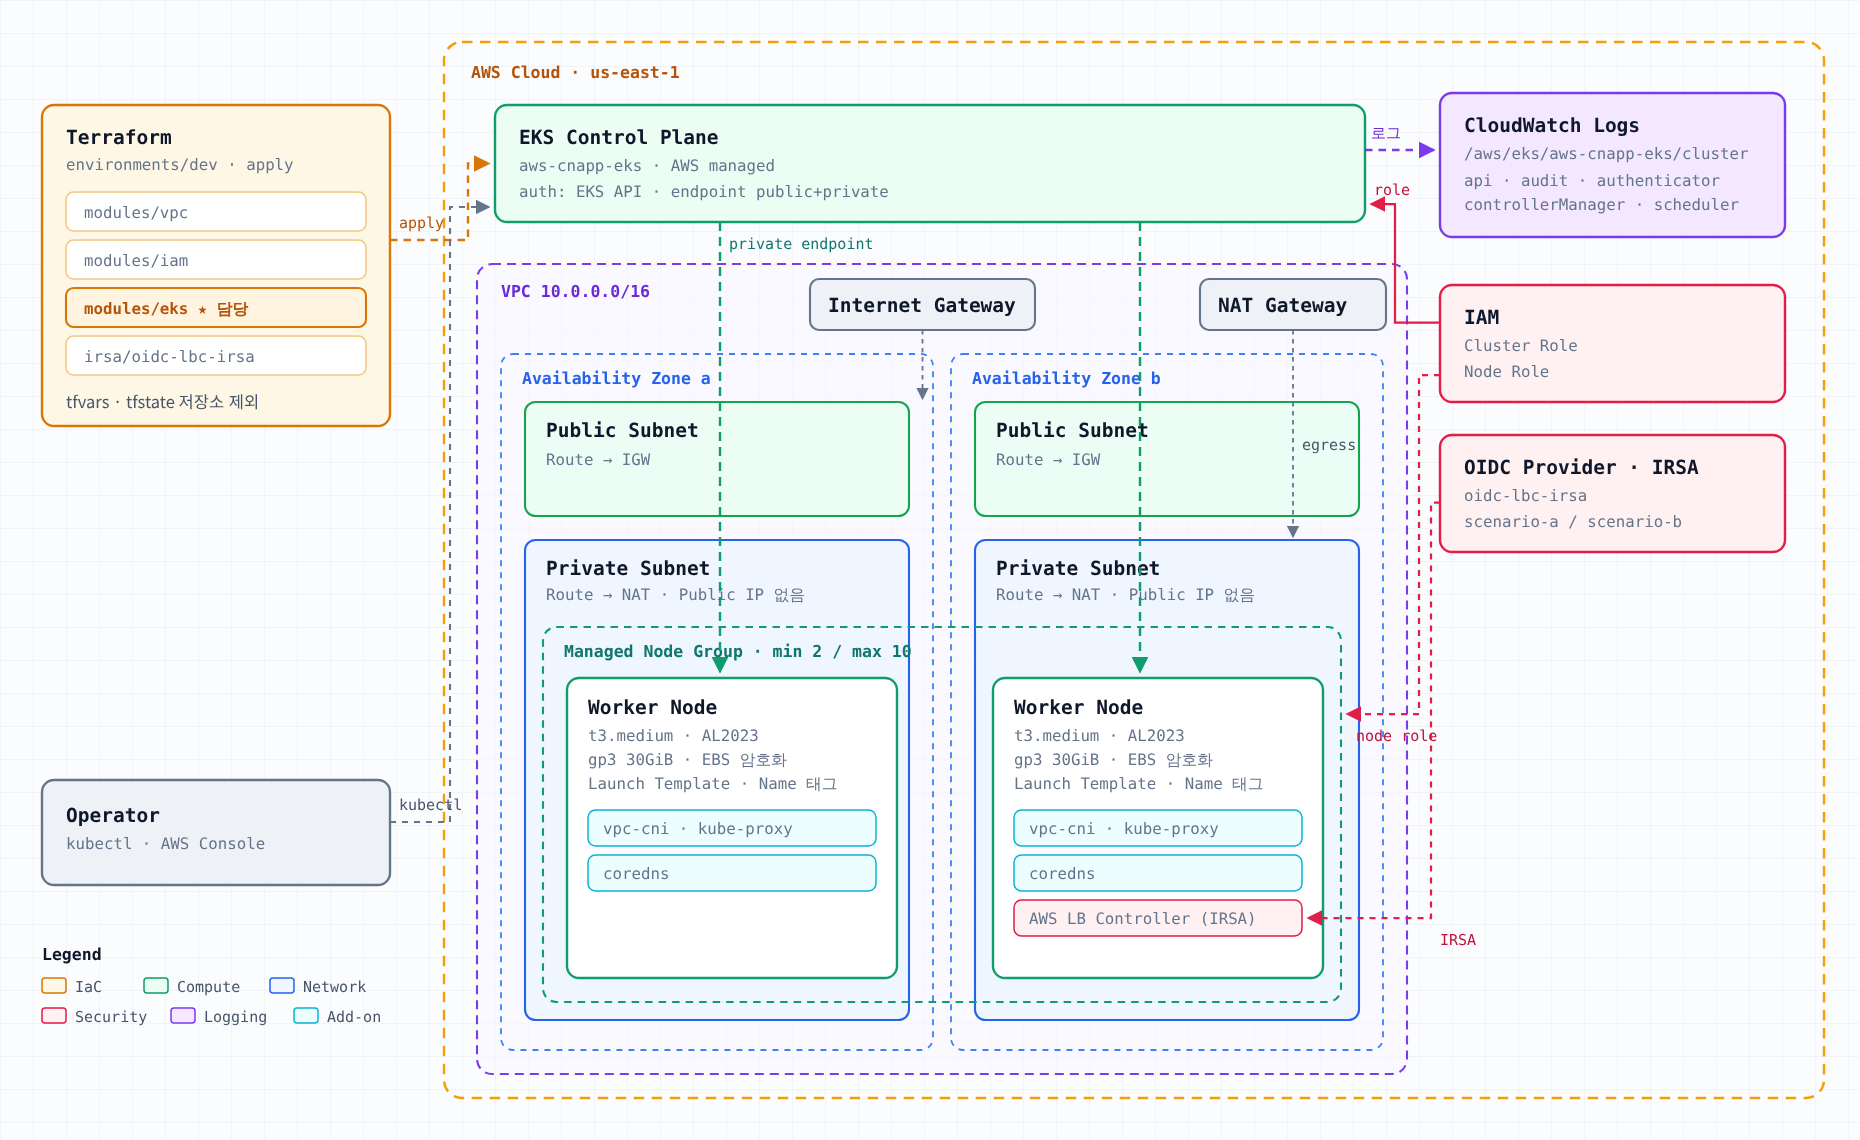
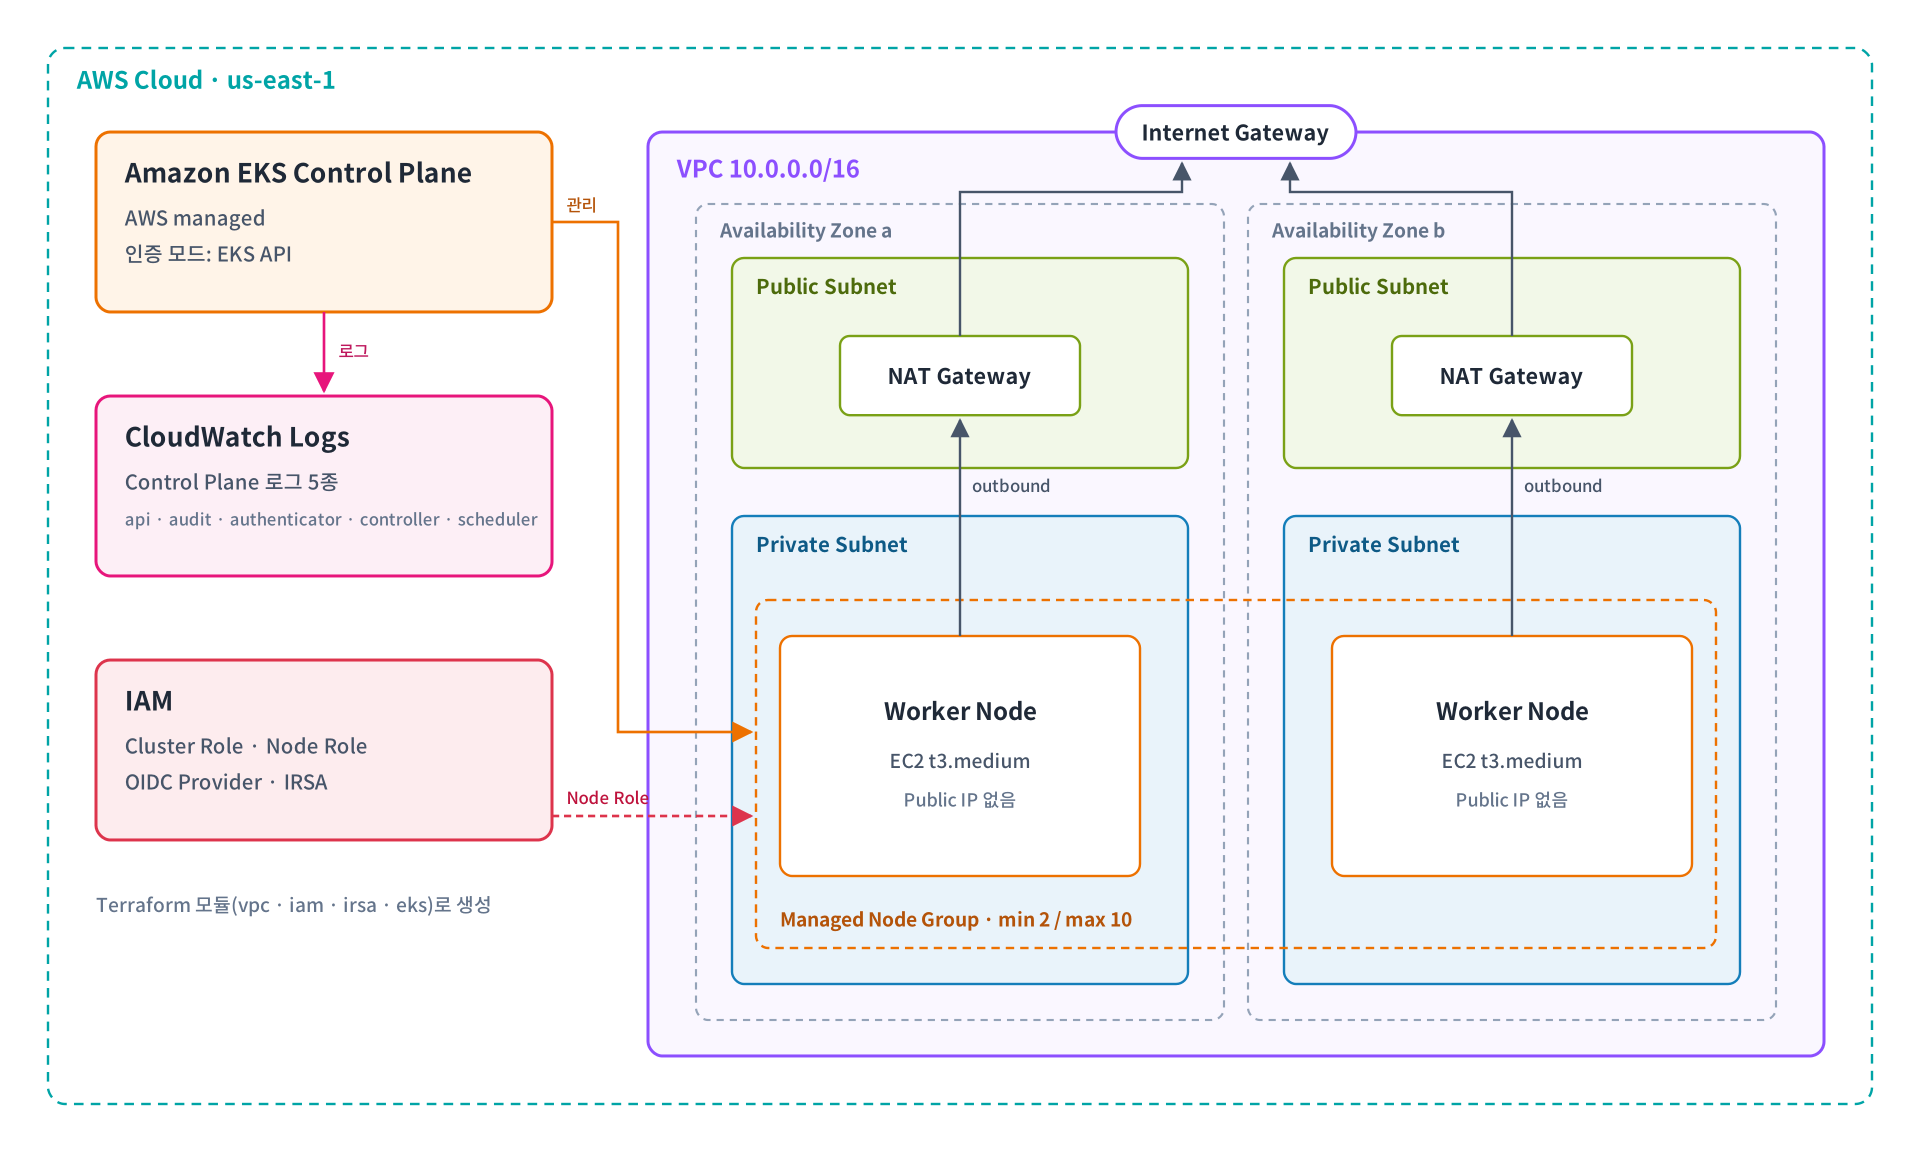
PROJECT 02 구성도를 실제 구성한 AWS 아키텍처 기준으로 단순화
Claude-Session: https://claude.ai/code/session_01BS17y6dHXNb1KSBesk1WUR

diff --git a/index.html b/index.html
@@ -253,7 +253,7 @@
     <h3><span class="n">01</span>프로젝트 소개</h3>
     <p>클라우드 네이티브 환경에서 침해 경로를 탐지하는 <b>AWS CNAPP 프로젝트</b>를 위해 AWS EKS 환경을 Terraform으로 구축하였습니다. 저는 <b>EKS 모듈</b>을 담당했으며, VPC와 IAM 모듈은 팀원들과 협업해 작성했습니다.</p>
     <figure>
-      <img src="assets/img/eks-architecture.png" alt="AWS EKS 인프라 구성도 · Terraform 모듈, VPC 2 AZ Public/Private Subnet, EKS Control Plane, Private Subnet의 Worker Node, IAM·IRSA, CloudWatch Logs" loading="lazy">
+      <img src="assets/img/eks-architecture.png" alt="AWS EKS 인프라 구성도 · us-east-1 VPC 10.0.0.0/16, 2개 AZ의 Public Subnet(NAT Gateway)과 Private Subnet(Worker Node), EKS Control Plane, CloudWatch Logs, IAM" loading="lazy">
     </figure>
 
     <h3><span class="n">02</span>배경과 목적</h3>
